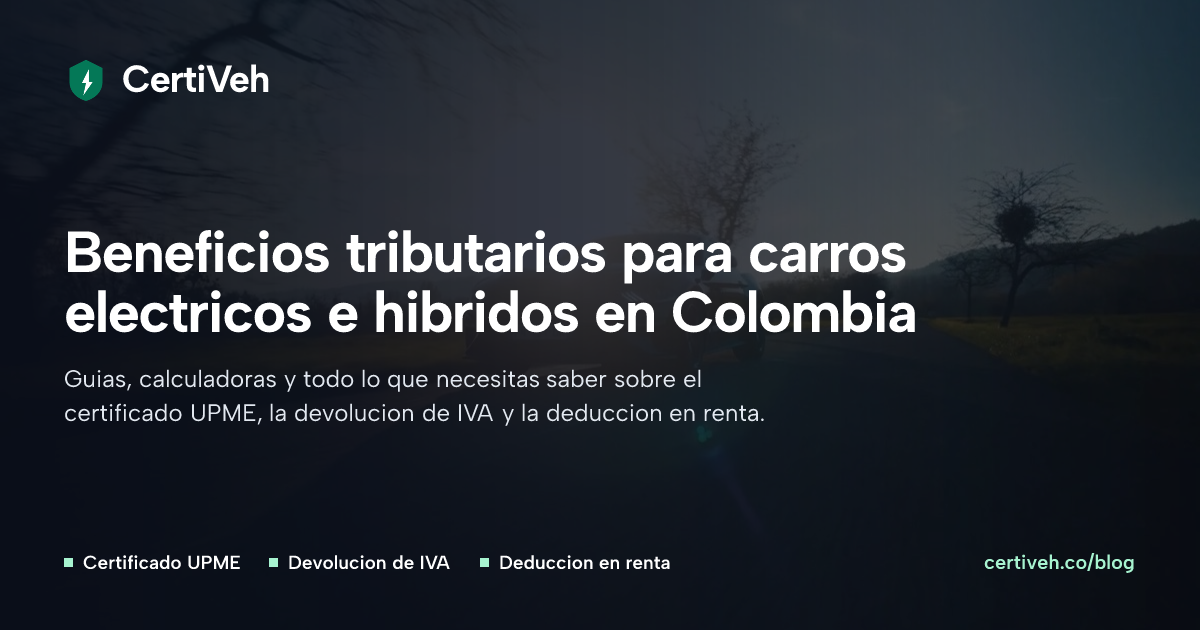
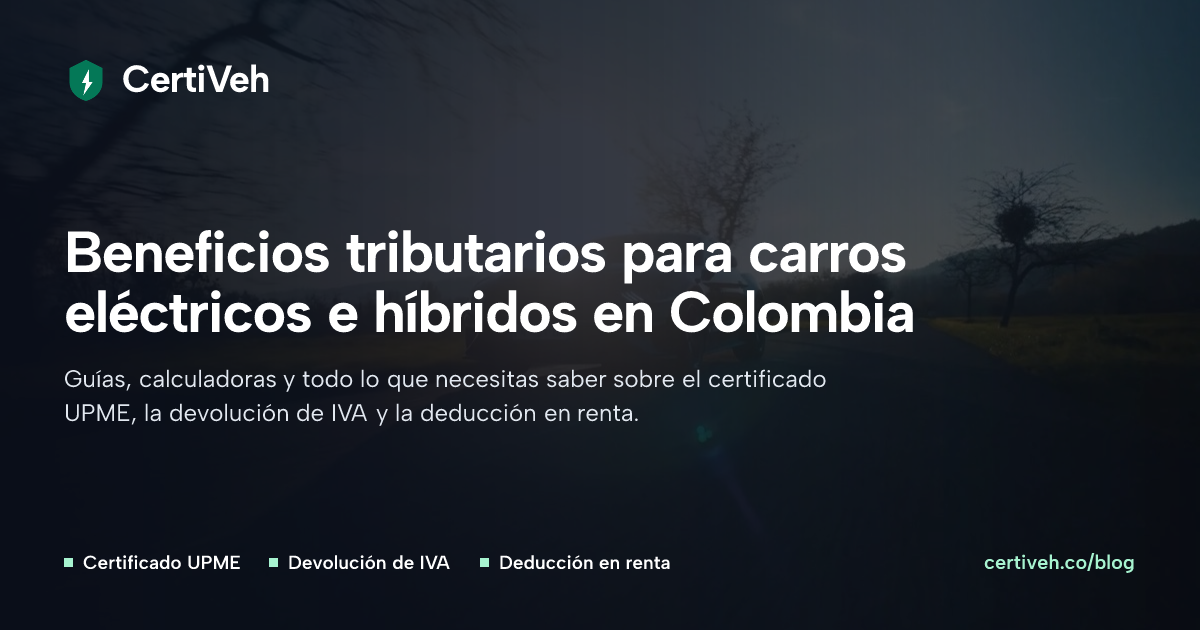
Imágenes sociales: una por artículo con su titular, JPEG ligero para WhatsApp y tildes
- El guion lee el h1 de cada artículo y genera og/blog/<slug>.jpg; BlogLayout la enlaza (meta y JSON-LD)
  y cae en blog.jpg si falta.
- Las páginas enlazan JPEG (40-55 KB en vez de ~500 KB); los PNG de siempre se siguen escribiendo.
- Las fichas de vehículos usan vehiculos.jpg (antes heredaban la de la home).
- og:image:width/height en todas las páginas; og-image.png huérfana pasa a la marca nueva.
- Huella SEO contra main: solo cambian las URLs de imagen y las dos metas nuevas.

Changed region(s): [[0.0617, 0.573, 0.6783, 0.6937], [0.3392, 0.4524, 0.7708, 0.5429], [0.0925, 0.4524, 0.1233, 0.4825]]

diff --git a/OG_IMAGE_SPECS.md b/OG_IMAGE_SPECS.md
@@ -112,33 +112,39 @@ no se cambiaron con el rediseño.
 
 ## 📦 Ubicación de los Archivos
 
-Siete PNG en `public/og/`, generados por `scripts/generate-og-images.mjs`
-(`node scripts/generate-og-images.mjs`):
+Todo en `public/og/`, generado por `scripts/generate-og-images.mjs` (`node scripts/generate-og-images.mjs`).
+**Las páginas enlazan el `.jpg`** (40-55 KB); el `.png` de cada página se sigue escribiendo con su nombre de
+siempre porque es la URL que las redes ya tienen en caché.
 
 ```
-/public/og/home.png          → la portada y 20 páginas más (por defecto en BaseLayout)
-/public/og/vehiculos.png     → el catálogo y las fichas
-/public/og/blog.png          → el índice del blog y los artículos
-/public/og/aliados.png       → la página de aliados
-/public/og/nosotros.png      → la página de nosotros
-/public/og/otros-activos.png → GEE / FNCE
-/public/og/portal.png        → los enlaces al portal
+/public/og/home.jpg          → la portada y las páginas sin imagen propia (por defecto en BaseLayout)
+/public/og/vehiculos.jpg     → el catálogo y las fichas de cada vehículo
+/public/og/blog.jpg          → el índice del blog (y el respaldo de un artículo sin imagen propia)
+/public/og/blog/<slug>.jpg   → UNA POR ARTÍCULO, con el titular del propio artículo
+/public/og/aliados.jpg       → la página de aliados
+/public/og/nosotros.jpg      → la página de nosotros
+/public/og/otros-activos.jpg → GEE / FNCE
+/public/og/portal.jpg        → los enlaces al portal (el portal publica la suya como og-portal.png)
 ```
 
-**URL Pública:** `https://certiveh.co/og/<nombre>.png`
+**URL Pública:** `https://certiveh.co/og/<nombre>.jpg`. Todas las páginas declaran además
+`og:image:width` 1200 y `og:image:height` 630, para que WhatsApp y Facebook pinten la vista previa desde
+el primer envío sin descargar la imagen antes.
 
-✅ **El guion ya se puede reejecutar** (noviembre de 2026). Antes sus siete fondos —fotos de banco—
+**Los artículos.** El guion lee el `<h1 class="banner-title">` de cada `src/pages/blog/*.astro` y genera
+`og/blog/<slug>.jpg` con ese titular, sin escribir ningún texto a mano: un titular corregido se corrige en
+su imagen al reejecutar el guion. `BlogLayout` la enlaza por el slug (meta y `image` del JSON-LD
+`BlogPosting`) y, si un artículo nuevo aún no la tiene, cae en `blog.jpg` en vez de enlazar una imagen que no
+existe. **Al publicar un artículo nuevo, reejecuta el guion.** El cuerpo del titular baja con su longitud
+(64 → 40 px) para que quepa siempre.
+
+✅ **El guion se puede reejecutar** (noviembre de 2026). Antes sus siete fondos —fotos de banco—
 vivían en `/tmp` y no en el repo, y moría con `ENOENT`. Ahora los fondos están en `scripts/og-bgs/`
 (ya recortados a 1200 x 630) y las fuentes en `scripts/fonts/`; el escudo sale de `public/favicon.svg`.
-Las siete imágenes se regeneraron el 3-nov-2026 con el copy vigente del guion.
+Los textos llevan sus tildes (antes «electricos», «devolucion»: la fuente vieja no las tenía).
 
-⚠ **Pesan unos 500 KB cada una**, por encima de los 300 KB recomendados arriba: es una foto en PNG.
-Los nombres de fichero son `.png` y las páginas los citan así, por eso no se pasaron a JPEG.
-
-⚠ Y `/public/og-image.png` **sí existe**, está trackeado en git y se publica en
-`https://certiveh.co/og-image.png`, pero está **huérfano**: ninguna página lo referencia (`BaseLayout`
-usa `/og/home.png` por defecto) y el guion **no** lo genera, así que sigue con la marca anterior. O se
-borra o se documenta para qué queda.
+`/public/og-image.png` no lo enlaza ninguna página, pero está publicado y pudo haberse compartido: desde el
+3-nov-2026 es una copia de `og/home.png`, para que un enlace viejo no muestre la marca anterior.
 
 ---
 
